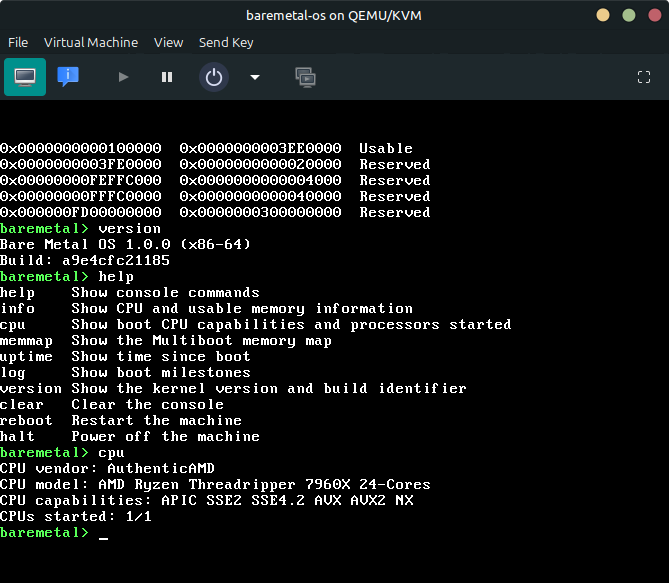
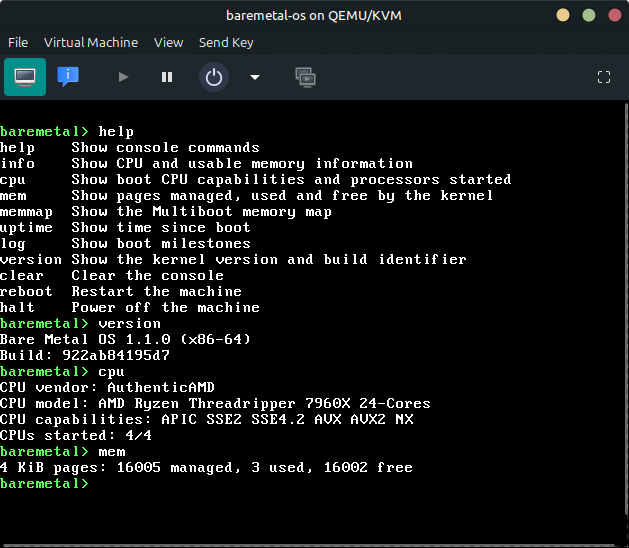
Update the README screenshot for v1.1.0

diff --git a/README.md b/README.md
@@ -11,7 +11,7 @@ Download the latest release from [GitHub Releases](https://github.com/melroy89/b
 - `baremetal-os.elf` boots directly as a kernel in QEMU/KVM.
 - `baremetal-os.iso` boots as a CD/DVD image with BIOS or UEFI firmware.
 
-![Bare Metal OS running in QEMU/KVM, showing the memory map and output from the version, help, and cpu commands](assets/baremetal-os.png)
+![Bare Metal OS 1.1.0 running in QEMU/KVM, showing console help, CPU details, and page counts](assets/baremetal-os.png)
 
 ## Quick start
 
